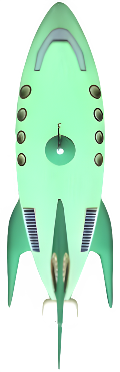
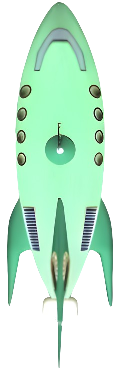
update more.person.ships

diff --git a/myplugins/more.person.ships/README.md b/myplugins/more.person.ships/README.md
@@ -4,7 +4,7 @@
 This plugin adds more person ships.<br>
 <br>
 I renamed my plugin pirate.warlords and added more person ships.<br>
-These ships have a frequency of 1000, are all captureable and currently there are 8 persons.<br>
+These ships have a frequency of 1000, are all captureable and currently there are 10 persons.<br>
 <br>
 List of new person ships:<br>
 <br>
@@ -17,9 +17,16 @@ Explorer Corps | Human territory | 3xBadger (new ship)<br>
 Coinin Tapa | east of Gegno territory| Coinin (new ship with new outfits)<br>
 Sesk Lem | Korath territory | Ikatila'ej (new ship, vanilla sprites)(@2x in official hdpi plugin)<br>
 Planet Express | everywhere | Old Bessie (new ship, stats by timeout.fu)
+Dark Star | Human territory | Dark Star (new ship)<br>
 <br>
 <br>
 Changelog:<br>
+<br>
+2026-04-18<br>
+removed stray pixels from badger and planet express<br>
+added swizzle 0 to the ships<br>
+made planet express and ikatila'ey'ey stronger<br>
+added dark star<br>
 <br>
 2025-06-05<br>
 colored job<br>
